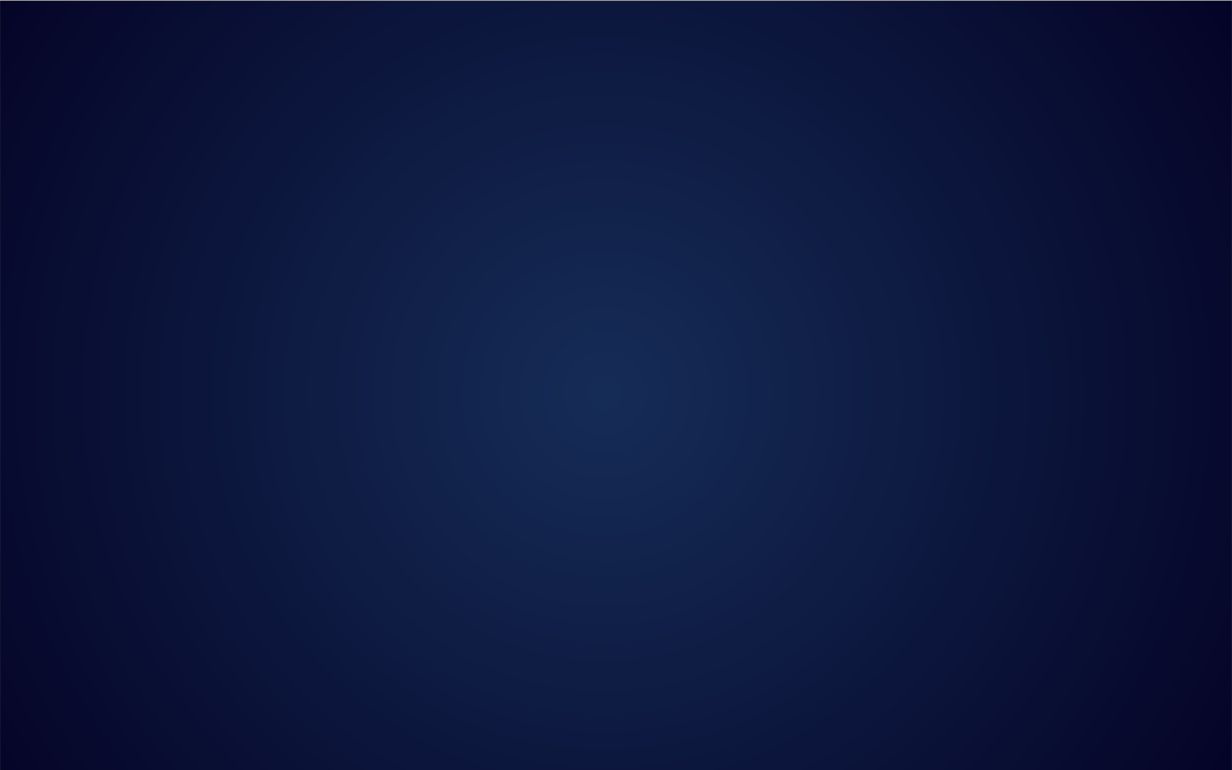
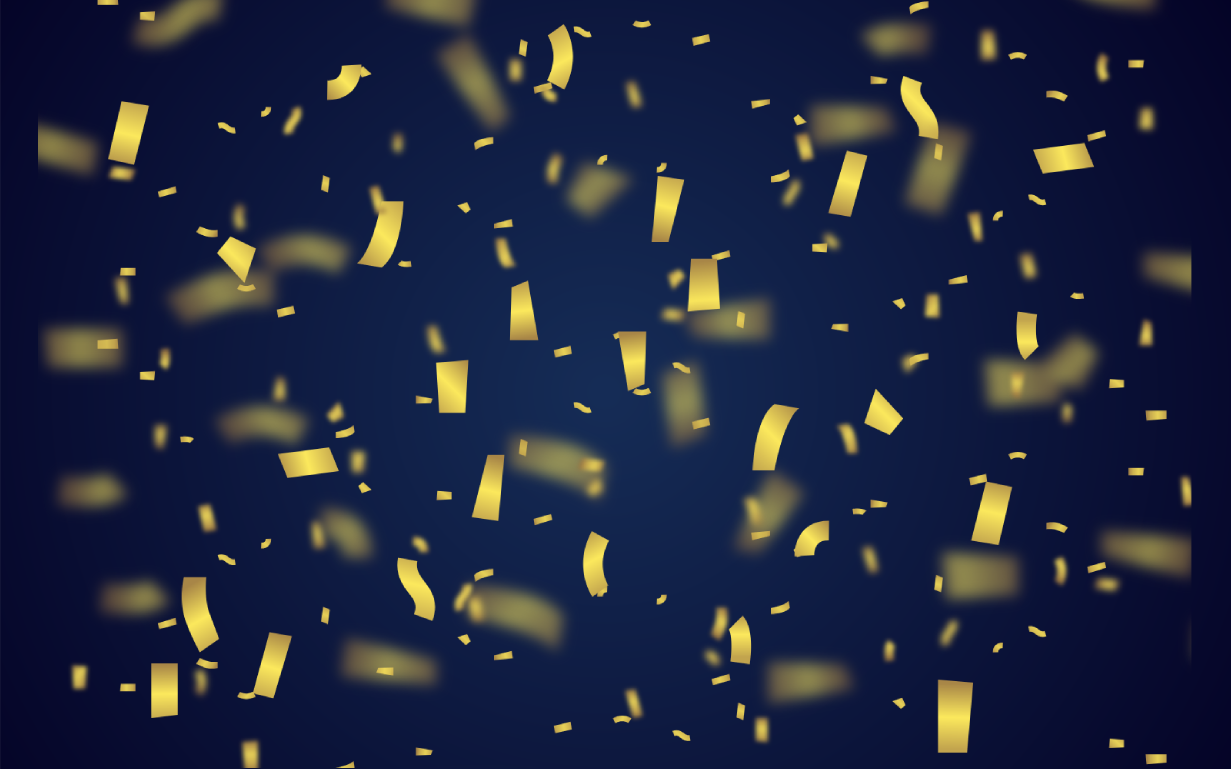
estilos e programação

diff --git a/src/scripts/main.js b/src/scripts/main.js
@@ -1,0 +1,95 @@
+//AOS.init();
+
+let timeStampBirthday = 0;
+const interval = 0;
+
+const button = document.querySelector('.hero__btn');
+
+button.addEventListener('click', function() {
+    const getData = document.getElementById('bday');
+    let year = [];
+    let month = [];
+    let day = [];
+    let monthWritten = "";
+
+    for (let i = 0; i < 4; i++) {
+        year[i] = getData.value[i];
+    }
+    for (let i = 5; i < 7; i++) {
+        month[i] = getData.value[i];
+    }
+    for (let i = 8; i < 10; i++) {
+        day[i] = getData.value[i];
+    }
+    var yearNum = parseInt(`${year[0] + year[1] + year[2] + year[3]}`);
+    var monthNum = parseInt(`${month[5] + month[6]}`);
+    var dayNum = parseInt(`${day[8] + day[9]}`);
+
+    switch(monthNum) {
+        case 1:
+            monthWritten = "JAN";
+            break;
+        case 2:
+            monthWritten = "FEB";
+            break;
+        case 3:
+            monthWritten = "MAR";
+            break;
+        case 4:
+            monthWritten = "APR";
+            break;
+        case 5:
+            monthWritten = "MAY";
+            break;
+        case 6:
+            monthWritten = "JUN";
+            break;
+        case 7:
+            monthWritten = "JUL";
+            break;
+        case 8:
+            monthWritten = "AUG";
+            break;
+        case 9:
+            monthWritten = "SEP";
+            break;
+        case 10:
+            monthWritten = "OCT";
+            break;
+        case 11:
+            monthWritten = "NOV";
+            break;
+        case 12:
+            monthWritten = "DEC";
+            break;
+    }
+    const birthday = `${monthWritten} ${dayNum}, ${yearNum} 00:00:00`;
+    const birthdayUser = new Date(birthday);
+    timeStampBirthday = birthdayUser.getTime();
+    inteval = setInterval (counter, 1000);
+})
+
+
+function counter() {
+    const now = new Date();
+    const timeStampNow = now.getTime();
+
+    const timeForBday = timeStampBirthday - timeStampNow;
+
+    const dayMs = 1000 * 60 * 60 * 24;
+    const hourMs = 1000 * 60 * 60;
+    const minutMs = 1000 * 60;
+
+    const dayForBday = Math.floor(timeForBday / dayMs);
+    const hoursForBday = Math.floor((timeForBday % dayMs) / hourMs);
+    const minutsForBday = Math.floor((timeForBday % hourMs) / minutMs);
+    const secondsForBday = Math.floor((timeForBday % minutMs) / 1000);
+
+    document.getElementById('counter').innerHTML = `${dayForBday}dias ${hoursForBday}:${minutsForBday}:${secondsForBday}:`;
+
+    if (timeForBday < 0) {
+        clearInterval(interval);
+        document.getElementById('counter').innerHTML = '';
+        document.getElementById('counter').innerHTML = 'Parabéns';
+    }
+};

diff --git a/src/styles/hero.scss b/src/styles/hero.scss
@@ -1,12 +1,54 @@
 .hero {
     width: 100vw;
     height: 100vh;
-    background-image: url(../images/fundo_confete.png);
 
     &__happyBday {
         display: flex;
         flex-direction: column;
         align-items: center;
         width: 100%;
+        margin-top: 90px;
+    }
+
+    &__form {
+        display: flex;
+        flex-direction: column;
+        align-items: center;
+        margin: 0 auto;
+        gap: 16px;
+        width: 40%;
+        text-align: center;
+
+        &__input {
+            width: 60%;
+            padding: 5px;
+            text-align: center;
+        }
+    }
+
+    &__btn {
+        display: block;
+        width: 30%;
+        padding: 5px;
+        margin: 0 auto;
+        margin-top: 16px;
+        border-radius: 16px;
+    }
+
+    &__counter {
+        text-align: center;
+        margin-top: 60px;
+
+        &__faltam {
+            margin-bottom: 40px;
+        }
+        
+        &__data {
+            padding: 16px;
+            border-radius: 50px;
+            background: linear-gradient(0deg, #665500 0%, #9e8300 53%, #d0ad00 100%);
+            box-shadow: 0px 5px 16px 0px #000;
+
+        }
     }
 }

diff --git a/src/index.html b/src/index.html
@@ -41,6 +41,15 @@
                 <h1 class="fontThird">HAPPY</h1>
                 <h1 class="fontFourth">BIRTHDAY</h1>
             </div>
+            <form class="hero__form">
+                <label class="fontFifth" for="birthday">Insira aqui sua data de aniversário</label>
+                <input class="hero__form__input fontSecond" type="date" name="birthday" id="bday" required>
+            </form>
+            <button class="hero__btn fontSeventh">Calcular</button>
+            <div class="hero__counter">
+                <h1 id="faltam" class="hero__counter__faltam fontThird">Faltam</h1>
+                <span id="counter" class="hero__counter__data fontSixth">???</span>
+            </div>
         </div>
     </section>
     <script src="scripts/main.js"></script>

diff --git a/src/styles/main.scss b/src/styles/main.scss
@@ -12,7 +12,8 @@
 
 body {
     background-image: url(../images/fundo.png);
-    background-size: cover;
+    background-size: cover; 
+    background-position: center;
 }
 
 .container {
@@ -46,11 +47,20 @@ body {
 
 .fontFifth {
     color: #fff;
-    font-size: 0.8em;
+    font-size: 0.9em;
+    letter-spacing: 2px;
 }
 
 .fontSixth {
     color: #fff;
-    font-size: 2em;
+    font-weight: 900;
+    letter-spacing: 3px;
+    font-size: 2.5em;
+}
+
+.fontSeventh {
+    color: #d0ad00;
+    font-weight: 900;
+    letter-spacing: 3px;
 }
 

diff --git a/src/styles/header.scss b/src/styles/header.scss
@@ -19,6 +19,7 @@
 
                 &__brandLink {
                     width: 60%;
+                    filter: invert(100%);
                 }
             }
         }
